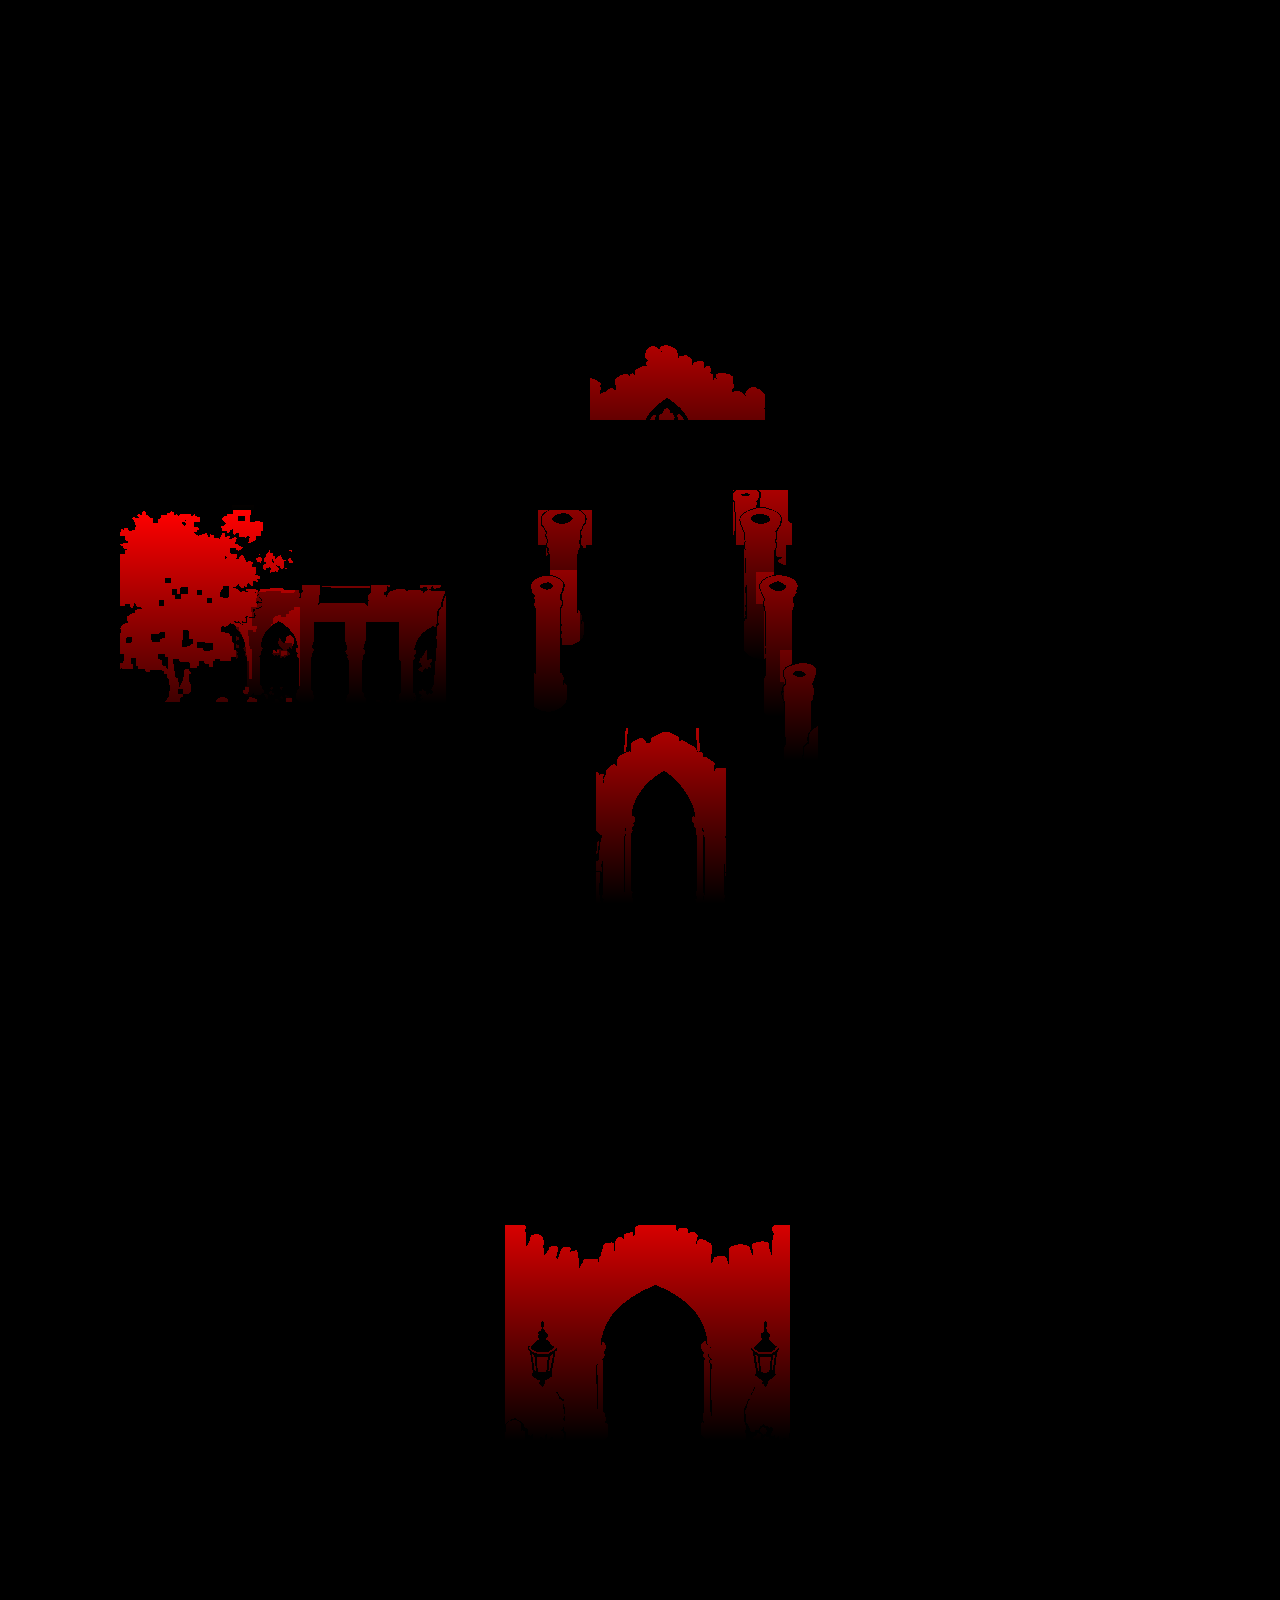
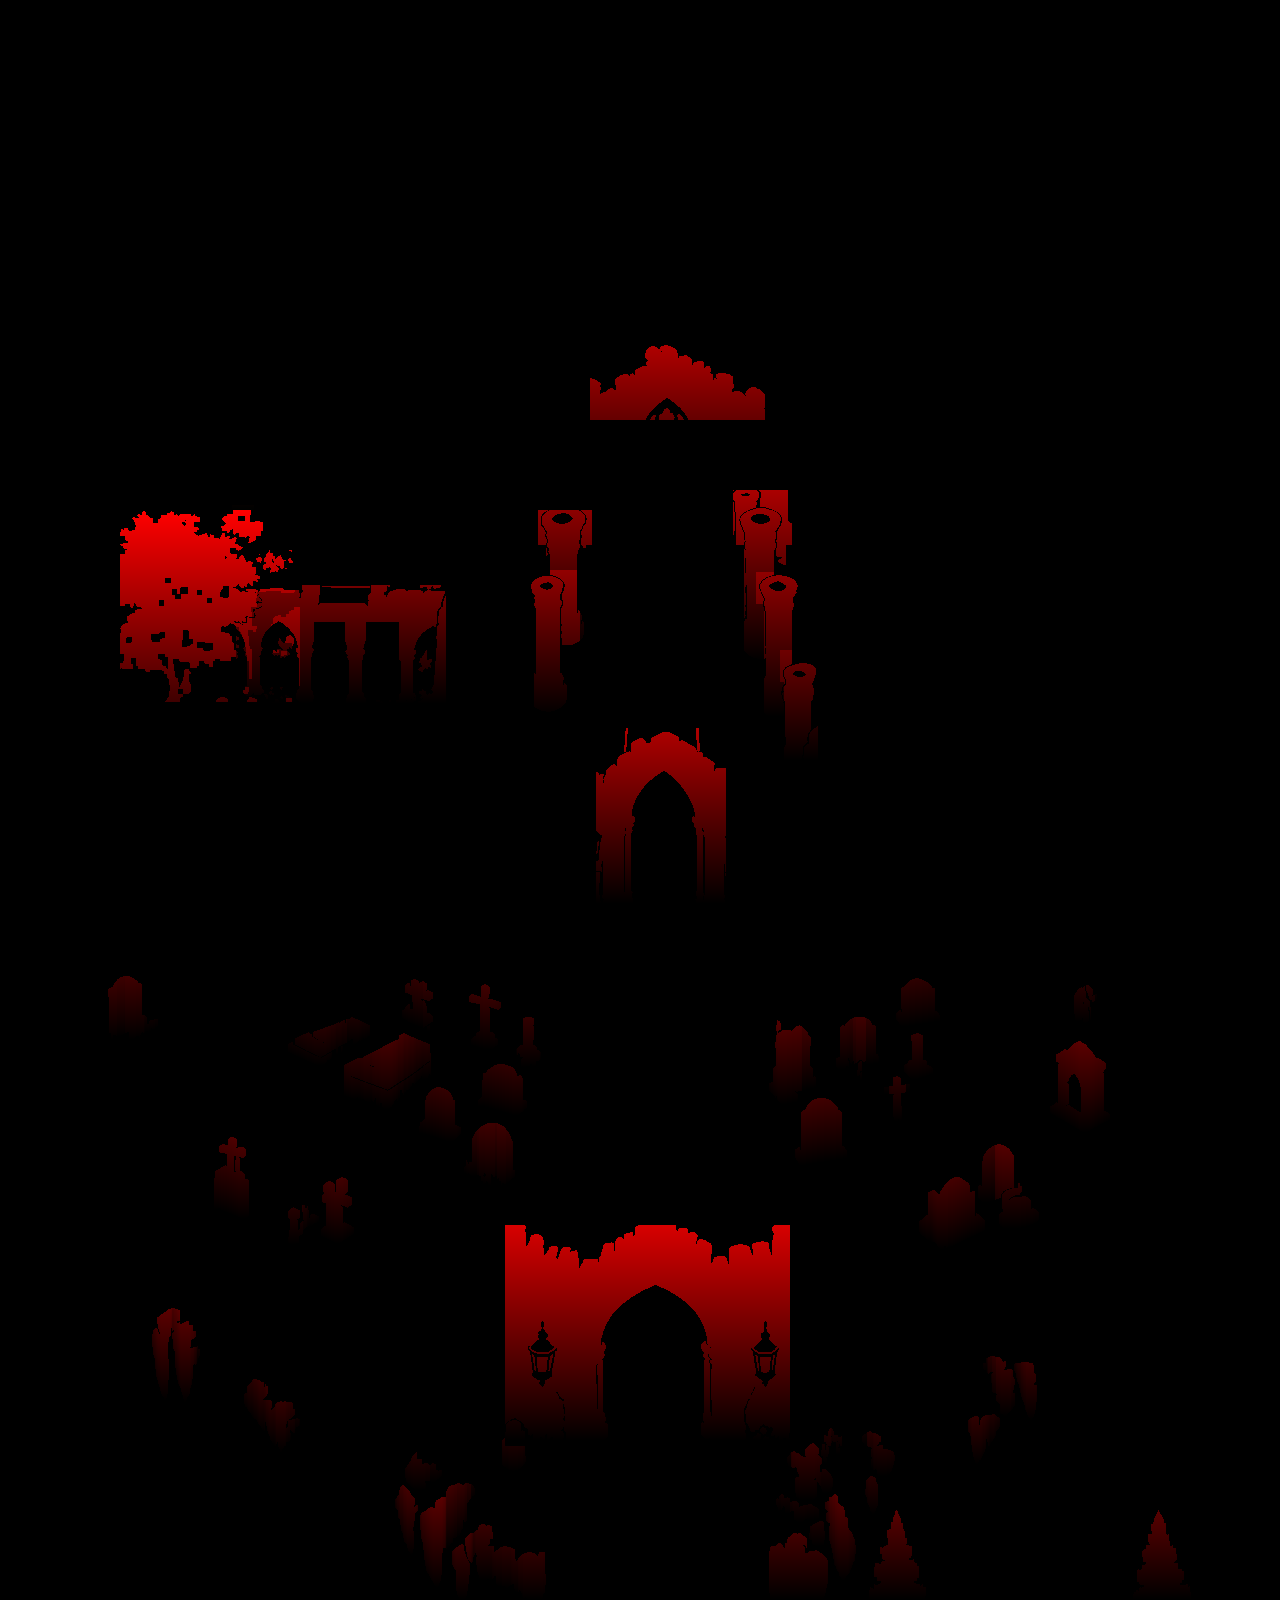
Twilight demo: rebuild collision (all visible ground walkable, objects block, walk-behind for graveyard props), check view on C, smoother wall sliding
Claude-Session: https://claude.ai/code/session_014gqNrMDU7toFrfwQ4Jw66a

diff --git a/chronicle2/twilight/site/game.js b/chronicle2/twilight/site/game.js
@@ -88,6 +88,7 @@ const cv = $('view'), ctx = cv.getContext('2d', { alpha: false });
 const stage = $('stage');
 const UI_ON = Q.get('ui') !== '0';
 const DEBUG = Q.get('debug') === '1';
+let showWalk = false;
 const OFF = new Set((Q.get('off') || '').split(',').filter(Boolean));   // ?off=mist,rays,grain,light,glow,fg,vignette,grade,particles for diagnosis
 if (!UI_ON) document.body.classList.add('noui');
 let SC = 2;                         // backing pixels per art pixel (1 = 960x540, 2 = 1920x1080, 3 = 2880x1620 on very large screens)
@@ -388,6 +389,7 @@ function onKey(e, down) {
   if (!down || e.repeat) return;
   if (e.key === 'z' || e.key === 'Z' || e.key === 'Enter' || e.key === ' ') { interact(); e.preventDefault(); }
   else if (e.key === 'm' || e.key === 'M') toggleMood();
+  else if (e.key === 'c' || e.key === 'C') showWalk = !showWalk;   // check view: where the hero cannot go
 }
 function interact() {
   if (dlg) { advance(); return; }
@@ -421,7 +423,10 @@ function setupInput() {
   const up = e => { if (e.pointerId === stick.id) { stick.on = false; stick.x = stick.y = 0; st.classList.remove('on'); } };
   addEventListener('pointerup', up); addEventListener('pointercancel', up);
   addEventListener('contextmenu', e => e.preventDefault());
-  $('moon').addEventListener('click', e => { toggleMood(); e.currentTarget.blur(); });
+  let moonHold = 0, moonLong = false;                       // touch: hold the moon for a second = the check view (same as the C key)
+  $('moon').addEventListener('pointerdown', () => { moonLong = false; clearTimeout(moonHold); moonHold = setTimeout(() => { moonLong = true; showWalk = !showWalk; }, 800); });
+  for (const ev of ['pointerup', 'pointerleave', 'pointercancel']) $('moon').addEventListener(ev, () => clearTimeout(moonHold));
+  $('moon').addEventListener('click', e => { if (!moonLong) toggleMood(); moonLong = false; e.currentTarget.blur(); });
   $('prompt').addEventListener('click', interact);
   for (const d of document.querySelectorAll('.dialog')) d.addEventListener('click', advance);
   addEventListener('resize', layout);
@@ -434,7 +439,7 @@ function setupUi() {
   $('titleJp').textContent = M.title; $('titleEn').textContent = M.titleEn || '';
   uiMood(moodTo);
   const touch = matchMedia('(pointer: coarse)').matches;
-  $('hint').innerHTML = touch ? 'ドラッグで移動　　月をタップで刻を替える' : '<b>← ↑ ↓ →</b>移動<b>Shift</b>走る<b>Z</b>調べる<b>M</b>月を替える';
+  $('hint').innerHTML = touch ? 'ドラッグで移動　　月をタップで刻を替える' : '<b>← ↑ ↓ →</b>移動<b>Shift</b>走る<b>Z</b>調べる<b>M</b>月を替える<b>C</b>当たり判定を表示';
   $('tipB').innerHTML = '画面を<b>ドラッグ</b>して歩く<br><b>月</b>をタップすると刻が替わる<br><span>横向きにすると大きく遊べます</span>';
   if (touch) $('promptKey').style.display = 'none';
   setupInput();
@@ -519,7 +524,7 @@ function update(dt) {
         if (free(hero.x, hero.y + dy)) { hero.y += dy; continue; }
       }
       let moved = false;                                      // straight into a slanted edge: slide if only one side is open
-      for (const ang of [.52, 1.05]) {
+      for (const ang of [.35, .7, 1.05, 1.3]) {
         const c = Math.cos(ang), s = Math.sin(ang);
         const ax = (dx * c - dy * s) * c, ay = (dx * s + dy * c) * c, bx = (dx * c + dy * s) * c, by = (-dx * s + dy * c) * c;
         const fa = free(hero.x + ax, hero.y + ay), fb = free(hero.x + bx, hero.y + by);
@@ -870,7 +875,7 @@ function render() {
     ctx.save(); ctx.translate(-gxo, -gyo); ctx.fillStyle = ctx.createPattern(grainTile, 'repeat'); ctx.fillRect(0, 0, CW + 192, CH + 192); ctx.restore();
   }
   ctx.globalAlpha = 1; ctx.globalCompositeOperation = 'source-over';
-  if (DEBUG) debugDraw(X, Y);
+  if (DEBUG) debugDraw(X, Y); else if (showWalk) walkDraw(X, Y);
 
   // ---- interaction prompt follows the hero
   const pr = $('prompt');
@@ -880,6 +885,21 @@ function render() {
     pr.classList.add('on');
   } else pr.classList.remove('on');
   cam.x = savedCam[0]; cam.y = savedCam[1];
+}
+function walkDraw(X, Y) {
+  if (!walkData) return;
+  ctx.save(); ctx.fillStyle = 'rgba(255,40,80,.34)';
+  const x0 = Math.max(0, Math.floor(cam.x / walkK)), y0 = Math.max(0, Math.floor(cam.y / walkK)), x1 = Math.min(walkW, x0 + VW / walkK + 2);
+  for (let j = y0; j < Math.min(walkH, y0 + VH / walkK + 2); j++) {
+    let run = -1;                                            // one rectangle per run of blocked cells
+    for (let i = x0; i <= x1; i++) {
+      const b = i < x1 && !walkData[j * walkW + i];
+      if (b && run < 0) run = i;
+      else if (!b && run >= 0) { ctx.fillRect(X(run * walkK), Y(j * walkK), (i - run) * walkK * SC, walkK * SC); run = -1; }
+    }
+  }
+  ctx.fillStyle = '#fff'; ctx.fillRect(X(hero.x) - 3, Y(hero.y) - 3, 6, 6);
+  ctx.restore();
 }
 function debugDraw(X, Y) {
   ctx.save(); ctx.lineWidth = 1; ctx.font = '12px monospace';

diff --git a/chronicle2/twilight/build/randomwalk_test.js b/chronicle2/twilight/build/randomwalk_test.js
@@ -1,0 +1,30 @@
+const { chromium } = require('playwright');
+(async () => {
+  const b = await chromium.launch();
+  const p = await b.newPage({ viewport: { width: 960, height: 540 }, deviceScaleFactor: 1 });
+  const errs = []; p.on('console', m => { if (m.type()==='error') errs.push(m.text()); }); p.on('pageerror', e => errs.push(String(e)));
+  await p.goto('http://localhost:8765/index.html?ui=0&q=low');
+  await p.waitForFunction(() => window.__game && window.__game.hero); await p.waitForTimeout(600);
+  // 1) random walk using the engine's own stepping: count how often the hero makes no progress at all while a key is held
+  const res = await p.evaluate(async () => {
+    const g = __game; const dirs = [['ArrowUp'],['ArrowDown'],['ArrowLeft'],['ArrowRight'],['ArrowUp','ArrowLeft'],['ArrowUp','ArrowRight'],['ArrowDown','ArrowLeft'],['ArrowDown','ArrowRight']];
+    const fire = (k, down) => dispatchEvent(new KeyboardEvent(down ? 'keydown' : 'keyup', { key: k }));
+    let stuck = 0, legs = 0, minx = 1e9, maxx = 0, miny = 1e9, maxy = 0, off = 0; const stuckAt = [];
+    for (let i = 0; i < 400; i++) {
+      const d = dirs[Math.floor(Math.random() * 8)]; d.forEach(k => fire(k, true));
+      const x0 = g.hero.x, y0 = g.hero.y; g.step(40, 1 / 60); d.forEach(k => fire(k, false)); g.step(1, 1 / 60);
+      const moved = Math.hypot(g.hero.x - x0, g.hero.y - y0); legs++;
+      if (!g.walkable(g.hero.x, g.hero.y)) off++;
+      if (moved < 1) { // blocked in this direction: fine if some other direction works
+        let any = false;
+        for (const e of dirs) { e.forEach(k => fire(k, true)); const a = g.hero.x, c = g.hero.y; g.step(6, 1 / 60); e.forEach(k => fire(k, false)); g.step(1, 1/60); if (Math.hypot(g.hero.x - a, g.hero.y - c) > 1) { any = true; break; } }
+        if (!any) { stuck++; stuckAt.push([Math.round(g.hero.x), Math.round(g.hero.y)]); }
+      }
+      minx = Math.min(minx, g.hero.x); maxx = Math.max(maxx, g.hero.x); miny = Math.min(miny, g.hero.y); maxy = Math.max(maxy, g.hero.y);
+      if (i % 50 === 49) { const pts = [[650,1100],[663,650],[985,430],[350,430],[300,720],[1030,800],[250,1100],[900,1150]]; const q = pts[(i/50|0) % pts.length]; g.teleport(q[0], q[1], 'down'); }
+    }
+    return { legs, stuck, stuckAt, off, range: [minx|0, maxx|0, miny|0, maxy|0] };
+  });
+  console.log(JSON.stringify(res), errs);
+  await b.close();
+})();

diff --git a/chronicle2/twilight/build/build2.py b/chronicle2/twilight/build/build2.py
@@ -45,24 +45,48 @@ red = cv2.morphologyEx(red, cv2.MORPH_CLOSE, np.ones((5, 5), np.uint8))
 red = cv2.morphologyEx(red, cv2.MORPH_OPEN, np.ones((3, 3), np.uint8)) > 0
 sub = base[y0:y1, x0:x1]; sub[red & raised0[y0:y1, x0:x1]] = 765
 for (x0, y0, x1, y1) in [(314, 622, 345, 700), (366, 622, 399, 700)]: base[y0:y1, x0:x1] = 0   # plants seen through the arches are behind
-yy = np.arange(H)[:, None].repeat(W, 1)
-height = np.where(base > 0, np.clip(base - yy, 0, 65535), 0)
 c1 = base > 0
 
-# ---------- walkable
-raised2 = raised0 & ~walk0 & ~c1
+# ---------- walkable: every piece of flat ground you can see (paths, grass, floors, stairs); things that stand up block
+# the standing-object mask draws stair risers as thin lines: a vertical opening removes them (and nothing that really stands up)
+raisedo = cv2.morphologyEx(raised0.astype(np.uint8), cv2.MORPH_OPEN, np.ones((6, 1), np.uint8)) > 0
+nv = raisedo[440:780, 500:830]                                           # the carpet's edge lines inside the nave are not walls
+nv[:] = cv2.morphologyEx(nv.astype(np.uint8), cv2.MORPH_OPEN, np.ones((1, 6), np.uint8)) > 0
+raised2 = raisedo & ~c1
 n, lab, st, _ = cv2.connectedComponentsWithStats(raised2.astype(np.uint8), connectivity=8)
 small = np.isin(lab, [i for i in range(1, n) if st[i, 4] < 120])           # flower specks do not block
 raised2 &= ~small
-MX, UP, DN = 12, 3, 7
+# props: small free-standing things (headstones, crosses, tombs, posts). The hero can step behind them:
+# only a band at their foot blocks, the rest of the silhouette is ground hidden behind the prop (height map hides the hero there).
+n, lab, st, _ = cv2.connectedComponentsWithStats(raised2.astype(np.uint8), connectivity=8)
+foot = np.zeros((H, W), bool); behind = np.zeros((H, W), bool); nprops = 0
+for i in range(1, n):
+    x, y, w, h, a = st[i]
+    if not (w <= 110 and 26 <= h <= 125 and a <= 7000 and y > 925): continue   # graveyard props only
+    m = lab[y:y + h, x:x + w] == i
+    rows = np.arange(h)[:, None]
+    yb = np.where(m.any(0), (m * rows).max(0), -1)                         # bottom row of the prop in each column
+    ybs = yb.copy()
+    for c in range(w):                                                     # smooth: use the lowest bottom within +-4 columns
+        ybs[c] = yb[max(0, c - 4):c + 5].max()
+    d = int(round(h * 0.75)) if w > 1.15 * h else int(np.clip(round(h * 0.3), 8, 16))   # flat tombs block almost whole
+    f = m & (rows > (ybs[None, :] - d))
+    foot[y:y + h, x:x + w] |= f
+    bh = m & ~f
+    behind[y:y + h, x:x + w] |= bh
+    sub = base[y:y + h, x:x + w]; bb = (y + ybs)[None, :].repeat(h, 0)
+    sub[m] = np.maximum(sub[m], bb[m])
+    nprops += 1
+print('props with walk-behind:', nprops)
+yy = np.arange(H)[:, None].repeat(W, 1)
+height = np.where(base > 0, np.clip(base - yy, 0, 65535), 0)
+solid = (raised2 & ~behind)                                                # walls, cliffs, trees, prop feet
+MX, UP, DN = 5, 1, 3
 k = np.ones((UP + DN + 1, 2 * MX + 1), np.uint8)
-blocked = cv2.dilate(raised2.astype(np.uint8), k, anchor=(MX, UP)) > 0     # raised px within dx<=MX, dy in [-UP, +DN]
-walk = walk0 & ~blocked & ~c1
-# pockets of visible floor under benches / between stacked objects: raised close above AND close below
-ka = np.ones((27, 1), np.uint8); kb = np.ones((17, 1), np.uint8)
-above = cv2.dilate(raised2.astype(np.uint8), ka, anchor=(0, 26)) > 0     # raised within 26 px above
-below = cv2.dilate(raised2.astype(np.uint8), kb, anchor=(0, 0)) > 0      # raised within 16 px below
-walk &= ~(above & below)
+blocked = cv2.dilate(solid.astype(np.uint8), k, anchor=(MX, UP)) > 0
+void = cv2.dilate(sky.astype(np.uint8), np.ones((9, 9), np.uint8)) > 0     # sky and cloud sea, with a safety rim
+ground = (~raised2 | behind) & ~void
+walk = ground & ~blocked & ~c1
 def rect(m, x0, y0, x1, y1, v): m[y0:y1, x0:x1] = v
 FORCE_ON = [
     (612, 1204, 692, 1445),   # through the gate (hidden strip behind the lintel + the opening)

diff --git a/chronicle2/twilight/build/viewcol.py b/chronicle2/twilight/build/viewcol.py
@@ -1,0 +1,21 @@
+import numpy as np, cv2, sys
+from PIL import Image, ImageDraw
+art = np.array(Image.open('map/map_art.png').convert('RGB'))
+walk = np.load('map/walk.npy'); reach = np.load('map/reach.npy'); height = np.load('map/height.npy')
+def ov(box, name, scale=2, step=50):
+    x0,y0,x1,y1 = box
+    a = art[y0:y1,x0:x1].astype(float); o = a*0.55          # non-walkable = darkened
+    w = walk[y0:y1,x0:x1]; r = reach[y0:y1,x0:x1]; hh = height[y0:y1,x0:x1] > 0
+    o[w] = a[w]*0.75 + np.array([0,255,140])*0.25              # walkable = green tint, full brightness
+    o[w & hh] = a[w & hh]*0.6 + np.array([190,90,255])*0.4     # walkable but hidden behind something = violet
+    e = cv2.morphologyEx(w.astype(np.uint8), cv2.MORPH_GRADIENT, np.ones((3,3),np.uint8)) > 0
+    o[e] = (255,255,255)
+    im = Image.fromarray(o.clip(0,255).astype(np.uint8)).resize(((x1-x0)*scale,(y1-y0)*scale), Image.NEAREST); d = ImageDraw.Draw(im)
+    for gx in range((x0//step+1)*step, x1, step): d.text(((gx-x0)*scale+2,2), str(gx), fill=(255,255,0)); d.line([((gx-x0)*scale,0),((gx-x0)*scale,6)], fill=(255,255,0))
+    for gy in range((y0//step+1)*step, y1, step): d.text((2,(gy-y0)*scale-5), str(gy), fill=(255,255,0)); d.line([(0,(gy-y0)*scale),(6,(gy-y0)*scale)], fill=(255,255,0))
+    im.save(f'map/c_{name}.png')
+if __name__ == '__main__':
+    if len(sys.argv) > 1:
+        b = tuple(int(v) for v in sys.argv[2].split(',')); ov(b, sys.argv[1], int(sys.argv[3]) if len(sys.argv) > 3 else 3, 20)
+    else:
+        ov((0,930,640,1500), 'SW', 2); ov((640,930,1280,1500), 'SE', 2); ov((0,250,640,930), 'NW', 2); ov((640,250,1280,930), 'NE', 2)
